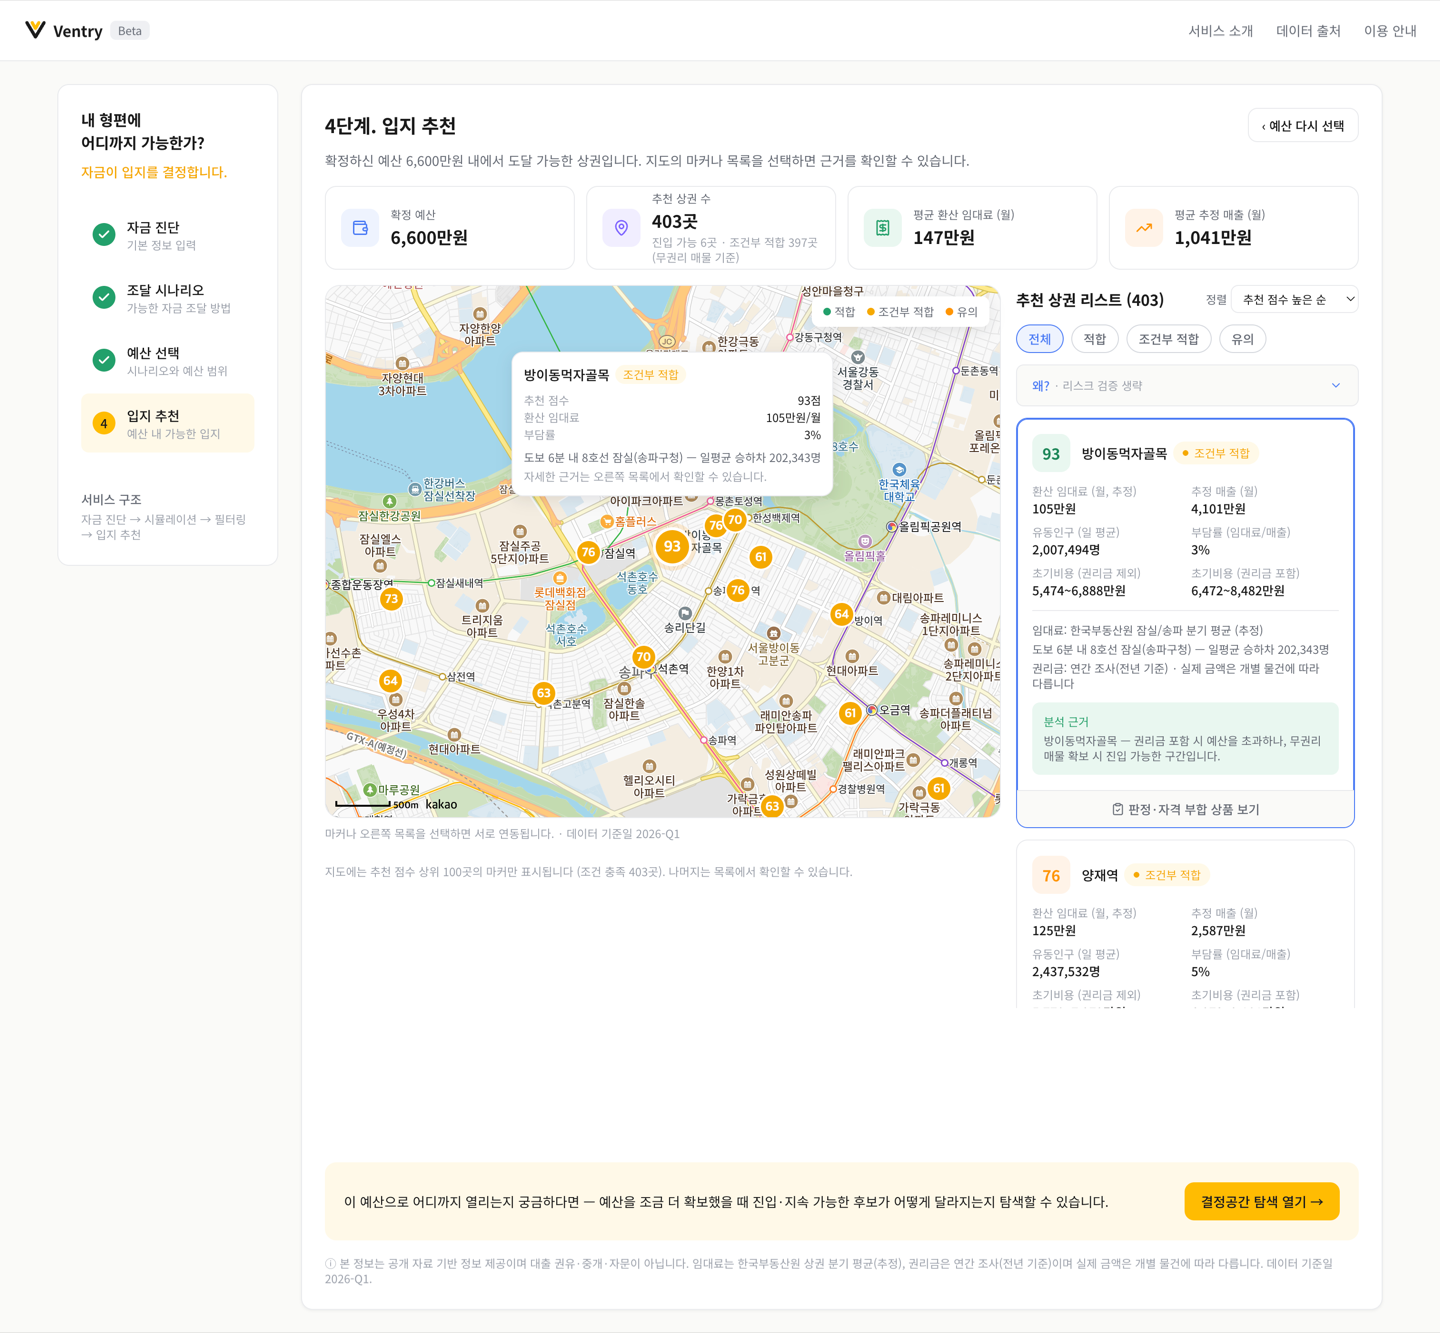
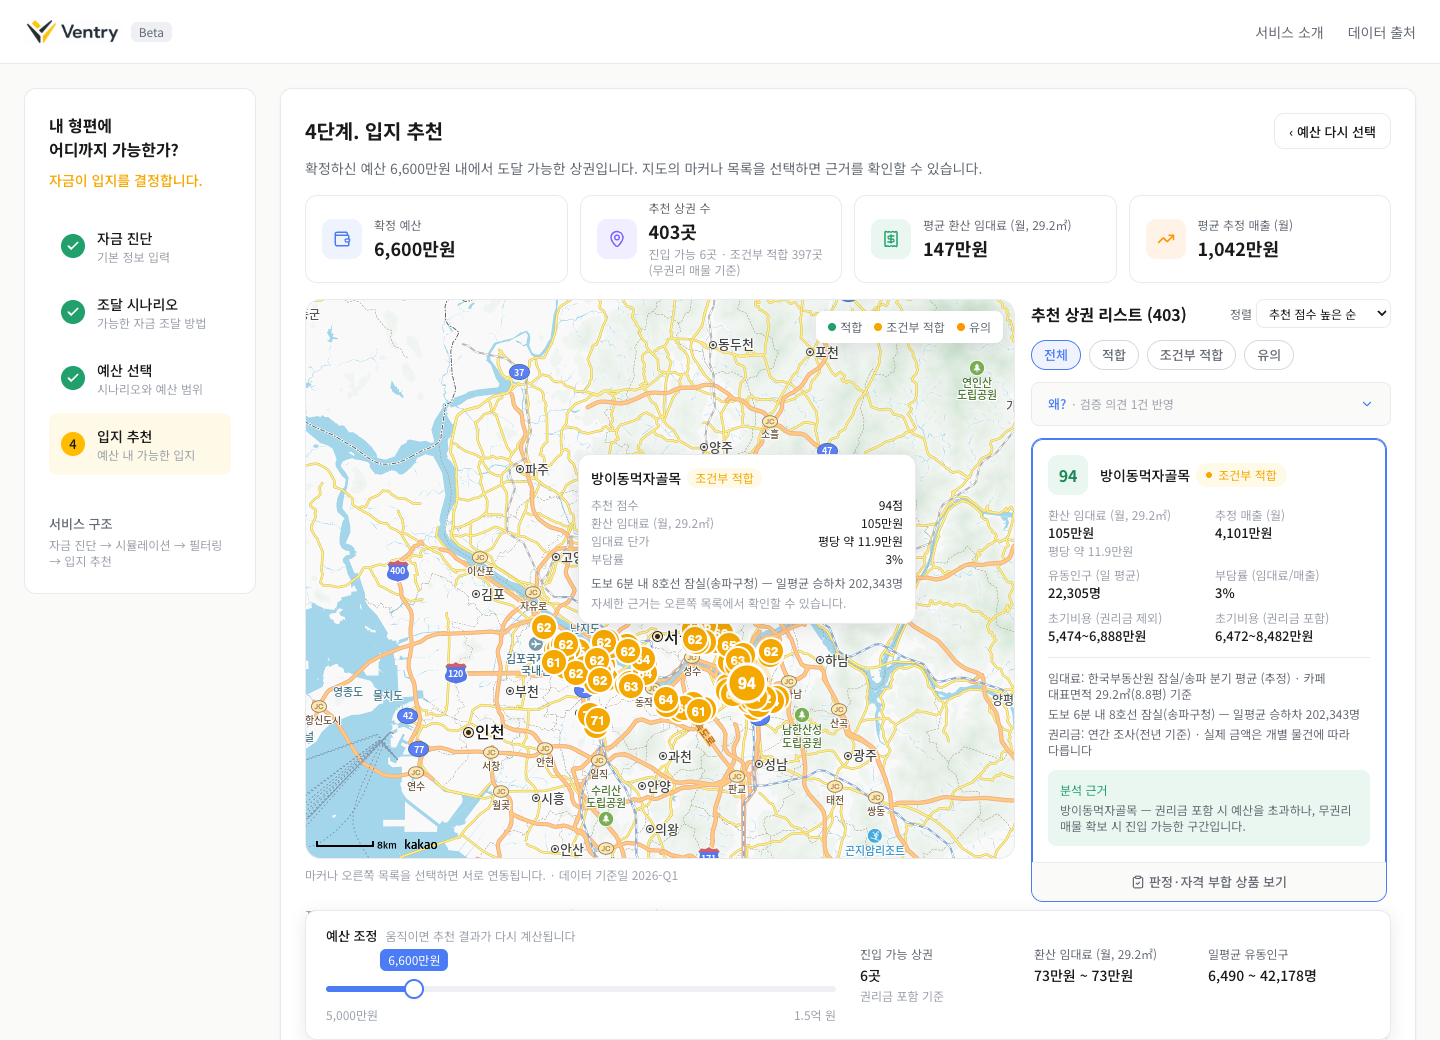
[FE] fix: 랜딩 목업 에셋 재캡처 — 90배 과대 유동인구·제거된 GNB 항목 잔존

diff --git a/frontend/src/screens/landing/landingData.ts b/frontend/src/screens/landing/landingData.ts
@@ -148,7 +148,7 @@ export const DATA_SOURCES = [
 export const HERO_OVERLAY = [
   { label: '확정 예산', value: '6,600만원' },
   { label: '추천 상권', value: '403곳' },
-  { label: '평균 추정 매출', value: '1,041만원' },
+  { label: '평균 추정 매출', value: '1,042만원' },
 ]
 
 /**
